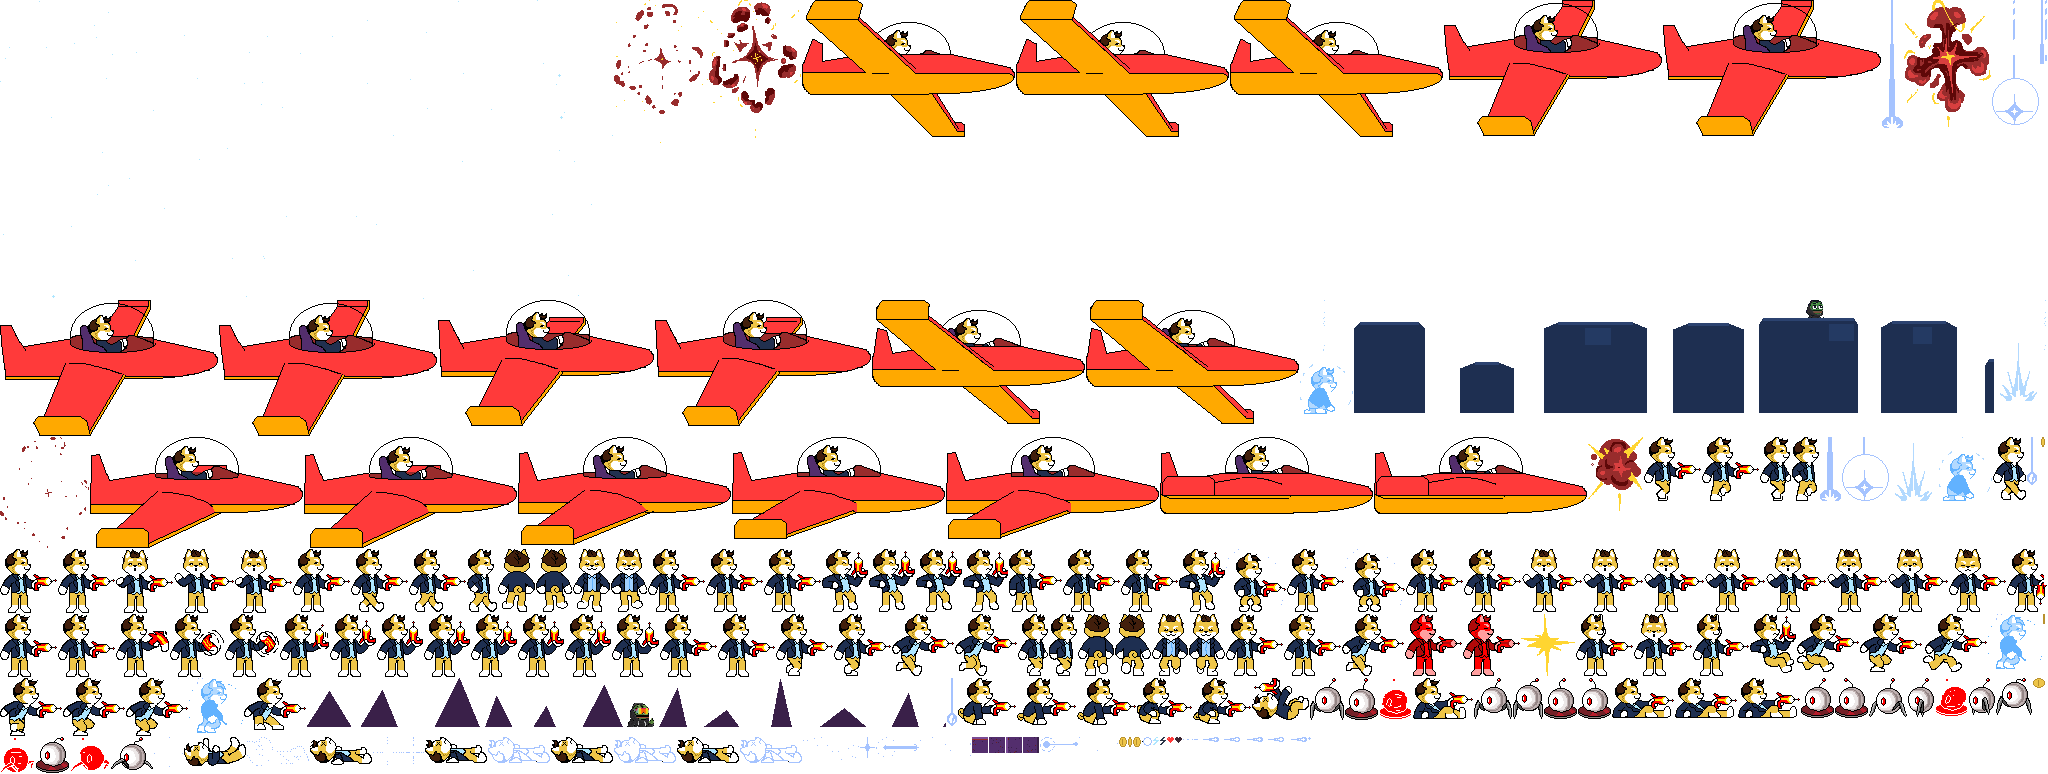
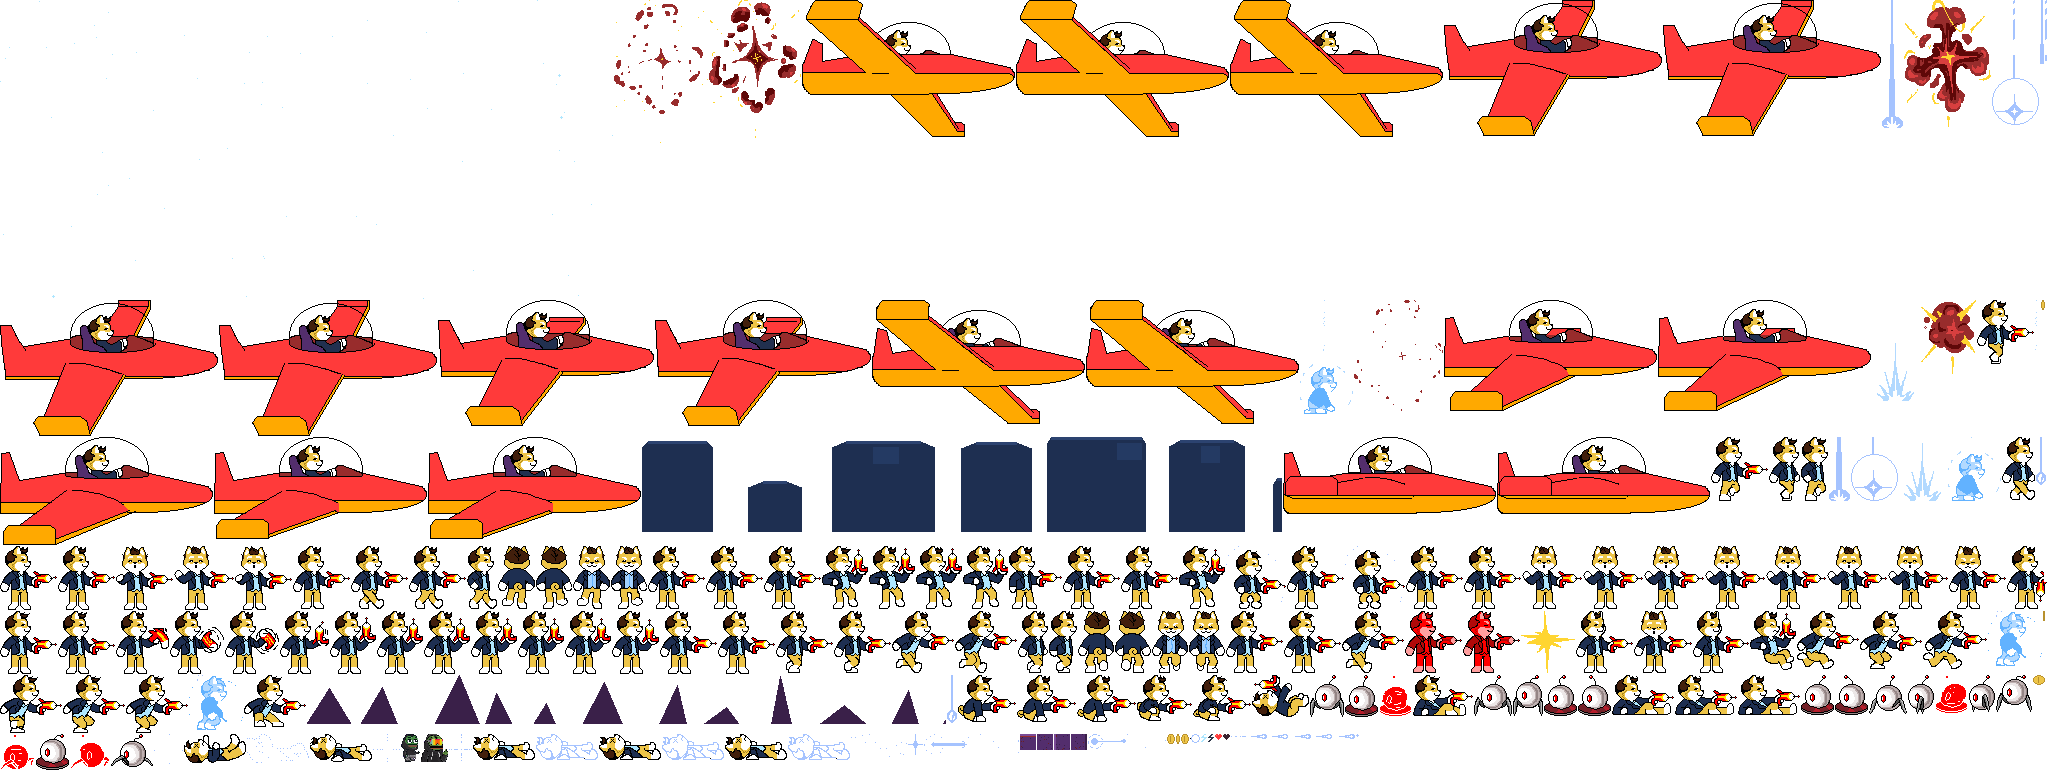
chore: scenery placement

diff --git a/web/game/scenes/play.js b/web/game/scenes/play.js
@@ -409,6 +409,32 @@ export function makePlay({ atlas, input, save, go, jukebox, sfx, toggleMute, xOn
     atlas.drawCentered(ctx, name, a.frames[0], sx + a.cw / 2, sy + a.ch / 2);
   }
 
+  // --- single props -----------------------------------------------------------
+  // The parallax strips TILE: they are 640 wide and the render wraps them, so
+  // anything drawn into one exists again every 640px of layer travel. A prop
+  // that is supposed to be a landmark — one of it, in one place — therefore
+  // cannot live in the strip. It gets its own draw here instead: one call, at a
+  // fixed coordinate in the LAYER's own space, with the band's parallax factor
+  // applied exactly the way band() applies it. So it drifts with its band and
+  // hides behind it, but there is only ever the one.
+  //
+  // Coordinates are layer-space (world x * the band's factor), and each was
+  // picked by scrolling to it: PROPS[0] rides the far mesas and comes up around
+  // the middle of the run, PROPS[1] rides the nearer rocks out where the level
+  // stops being polite. The y is the same offset inside the band each one had
+  // when it was painted into the strip, so the composition — how much of it the
+  // rock swallows — is unchanged.
+  const PROPS = [
+    { name: 'prop1', x: 2900, fx: 0.30, fy: 0.12, bias: 4,  bh: 120, y: 7 },
+    { name: 'prop2', x: 9700, fx: 0.60, fy: 0.20, bias: 10, bh: 80,  y: 56 },
+  ];
+
+  function drawProp(ctx, p, drift) {
+    const sx = Math.round(p.x - cam.x * p.fx);
+    if (sx > VW || sx + atlas.anims[p.name].cw < 0) return;   // off-screen: skip
+    drawLayer(ctx, p.name, sx, restLine + p.bias - p.bh + drift(p.fy) + p.y);
+  }
+
   return {
     update(dt) {
       ambT += dt;
@@ -654,6 +680,9 @@ export function makePlay({ atlas, input, save, go, jukebox, sfx, toggleMute, xOn
       // sits behind every band that follows and drifts with them.
       if (xOn?.()) { drawDeco1(ctx, sox + 96, 52 + drift(0.05));
                      drawDeco1(ctx, sox + VW + 96, 52 + drift(0.05)); }
+      // Props go down BEFORE their band, so the band occludes them the same way
+      // the strip art did when they were painted underneath it.
+      drawProp(ctx, PROPS[0], drift);
       band('par_mesas', 0.30, 0.12, 4);
       // far-ground haze under the near band: with the camera riding high the
       // real floor drops away faster than the parallax does, and without this
@@ -661,6 +690,7 @@ export function makePlay({ atlas, input, save, go, jukebox, sfx, toggleMute, xOn
       const rocksBottom = restLine + 10 + drift(0.20);
       ctx.fillStyle = '#2a1c33';
       ctx.fillRect(0, rocksBottom - 20, VW, VH - rocksBottom + 20);
+      drawProp(ctx, PROPS[1], drift);
       band('par_rocks', 0.60, 0.20, 10);
 
       ctx.save(); cam.apply(ctx);

diff --git a/tests/e2e/gauntlet.spec.js b/tests/e2e/gauntlet.spec.js
@@ -162,3 +162,37 @@ test('a real death with nothing earned docks the flat 100 and goes negative', as
   expect(st.hp).toBe(3);                    // real death: full-hp respawn
   expect(errors).toEqual([]);
 });
+
+test('scenery props are landmarks: each one exists at exactly one place', async ({ page }) => {
+  const errors = await boot(page);
+  // The parallax bands TILE every 640px, so anything painted into a strip
+  // repeats forever. These two props are drawn by the scene instead, once each,
+  // and this is the test that keeps them that way: a colour that only that
+  // prop's art uses is counted over the whole finished frame at camera
+  // positions spread across the level. Exactly one position may see it.
+  const counts = await page.evaluate(async (spots) => {
+    const SIG = { prop1: [113, 86, 69], prop2: [156, 82, 55] };
+    const sleep = ms => new Promise(r => setTimeout(r, ms));
+    const out = [];
+    for (const x of spots) {
+      window.__blast.cheat.warp(x);
+      await sleep(700);                       // let the camera catch up and redraw
+      const c = document.getElementById('screen');
+      const d = c.getContext('2d').getImageData(0, 0, c.width, c.height).data;
+      const n = { warp: x, prop1: 0, prop2: 0 };
+      for (let i = 0; i < d.length; i += 4)
+        for (const k in SIG)
+          if (d[i] === SIG[k][0] && d[i + 1] === SIG[k][1] && d[i + 2] === SIG[k][2]) n[k]++;
+      out.push(n);
+    }
+    return out;
+  }, [1000, 6000, 9020, 12000, 15800, 20000, 23000]);
+
+  for (const k of ['prop1', 'prop2']) {
+    const seen = counts.filter(c => c[k] > 0);
+    expect(seen.map(c => c.warp), `${k} seen at ${JSON.stringify(seen)}`).toHaveLength(1);
+  }
+  expect(counts.find(c => c.warp === 9020).prop1).toBeGreaterThan(0);   // mid-run, far band
+  expect(counts.find(c => c.warp === 15800).prop2).toBeGreaterThan(0);  // deep, near band
+  expect(errors).toEqual([]);
+});

diff --git a/tests/e2e/boot.spec.js b/tests/e2e/boot.spec.js
@@ -40,7 +40,7 @@ test('boots clean: canvas, atlas, no console errors', async ({ page }) => {
   await expect(page.locator('canvas#screen')).toBeVisible();
   const st = await page.evaluate(() => window.__blast.state());
   expect(st.scene).toBe('play');
-  expect(st.anims).toBe(29);
+  expect(st.anims).toBe(31);
   expect(errors).toEqual([]);
   await page.screenshot({ path: 'tests/artifacts/boot.png' });
 });

diff --git a/tools/genart.py b/tools/genart.py
@@ -8,7 +8,6 @@ import random
 
 ROOT = Path(__file__).resolve().parent.parent
 OUT = ROOT / 'assets-gen'
-EXTRA = ROOT / 'assets-extra'
 
 # Palette anchors (from web/assets/palette.json — art choices, not derived)
 ROCK, ROCK_DK, ROCK_LT = '#532e6d', '#3a2049', '#7a4b96'   # purple mars rock
@@ -17,14 +16,6 @@ GOLD, GOLD_DK = '#eec548', '#b8912e'                        # coin
 RED, WHITE, ICE, NAVY = '#ff3a3a', '#ffffff', '#aee6ff', '#1e2f51'
 
 def sheet(w, h): return Image.new('RGBA', (w, h), (0, 0, 0, 0))
-
-def under(im, name, x, y):
-    """Composite assets-extra/<name> BEHIND everything already on `im`, with its
-    top-left at (x, y). Anything that falls outside the strip is cropped, which
-    is how a figure ends up half-buried rather than standing on the band."""
-    layer = sheet(im.width, im.height)
-    layer.paste(Image.open(EXTRA / name).convert('RGBA'), (x, y))
-    return Image.alpha_composite(layer, im)
 
 def px(d, x, y, c): d.point((x, y), fill=c)
 
@@ -98,21 +89,11 @@ def parallax():
     rng = random.Random(42)
     star_field(sheet(640, 360), rng, 90, 300).save(OUT / 'par_stars.png')
 
-    mesas = mesa_band(sheet(640, 120), rng)
-    # Fixed coordinates, read off the seeded layout above: the wide butte that
-    # spans x 409-499 has a flat top at y=25, so a 28px figure parked at y=7
-    # clears it by its head and shoulders and keeps the rest behind the rock.
-    mesas = under(mesas, 'deco1.png', 452, 7)
-    mesas.save(OUT / 'par_mesas.png')
-
-    rocks = rock_band(sheet(640, 80), rng)
-    # Same idea one band nearer: x 317-352 is a clear gap between two rock
-    # triangles. The y is set by where this band actually lands on screen — it
-    # is drawn with its bottom 10px BELOW the horizon, so the ground slab eats
-    # that much of it. Parking a 28px figure at y=56 puts its lower ten rows in
-    # the buried strip and leaves the top half standing in the gap.
-    rocks = under(rocks, 'deco2.png', 321, 56)
-    rocks.save(OUT / 'par_rocks.png')
+    # The strips are pure terrain and TILE every 640px. Anything that should
+    # exist once in the level cannot live in here — see the scene's parallax
+    # pass, which places single props against these same bands.
+    mesa_band(sheet(640, 120), rng).save(OUT / 'par_mesas.png')
+    rock_band(sheet(640, 80), rng).save(OUT / 'par_rocks.png')
 
 def coin():
     """6-frame 12x12 spin: wide→narrow→wide ellipse with $ hint."""

diff --git a/tools/build_assets.py b/tools/build_assets.py
@@ -55,6 +55,15 @@ GEN = [
     ('gundown',   'pose_gundown.png', 64,  64,  1, False),
 ]
 
+EXTRA_DIR = ROOT / 'assets-extra'
+# Single-cell props. Same shape as GEN, different source tree: these are hand
+# art rather than generated, and the scene places each one at exactly one spot
+# in the world instead of tiling it.
+EXTRA = [
+    ('prop1',     'deco1.png',      19,  28,  1, False),
+    ('prop2',     'deco2.png',      27,  28,  1, False),
+]
+
 def slice_sheet(path, cw, ch, factor):
     """yield native-resolution frames (trimmed img, ox, oy, native_cw, native_ch)"""
     im = Image.open(SRC / path).convert('RGBA')
@@ -95,16 +104,17 @@ def collect():
     anims[name] = dict(frames=list(range(base, base + len(ship_files))),
                        fps=fps, loop=loop, feetY=feet, cw=256, ch=200)
 
-    for name, fname, fw, fh, fps, loop in GEN:
-        im = Image.open(GEN_DIR / fname).convert('RGBA')
-        base = len(frames)
-        n = im.width // fw
-        for i in range(n):
-            cell = im.crop((i * fw, 0, (i + 1) * fw, fh))
-            bb = cell.getbbox(alpha_only=True) or (0, 0, fw, fh)
-            frames.append((cell.crop(bb), bb[0], bb[1]))
-        anims[name] = dict(frames=list(range(base, base + n)), fps=fps, loop=loop,
-                           feetY=fh, cw=fw, ch=fh)
+    for src_dir, table in ((GEN_DIR, GEN), (EXTRA_DIR, EXTRA)):
+        for name, fname, fw, fh, fps, loop in table:
+            im = Image.open(src_dir / fname).convert('RGBA')
+            base = len(frames)
+            n = im.width // fw
+            for i in range(n):
+                cell = im.crop((i * fw, 0, (i + 1) * fw, fh))
+                bb = cell.getbbox(alpha_only=True) or (0, 0, fw, fh)
+                frames.append((cell.crop(bb), bb[0], bb[1]))
+            anims[name] = dict(frames=list(range(base, base + n)), fps=fps, loop=loop,
+                               feetY=fh, cw=fw, ch=fh)
 
     return frames, anims
 
@@ -159,8 +169,8 @@ def main():
     kb = (OUT / 'atlas.png').stat().st_size // 1024
     print(f'frames={len(frames)} anims={len(anims)} atlas={atlas.width}x{atlas.height} '
           f'({kb} KB) palette={len(pal)} colors')
-    assert len(frames) == 194, len(frames)
-    assert len(anims) == 29, len(anims)
+    assert len(frames) == 196, len(frames)
+    assert len(anims) == 31, len(anims)
     assert atlas.height <= 2048, 'atlas overflow'
 
 if __name__ == '__main__':
